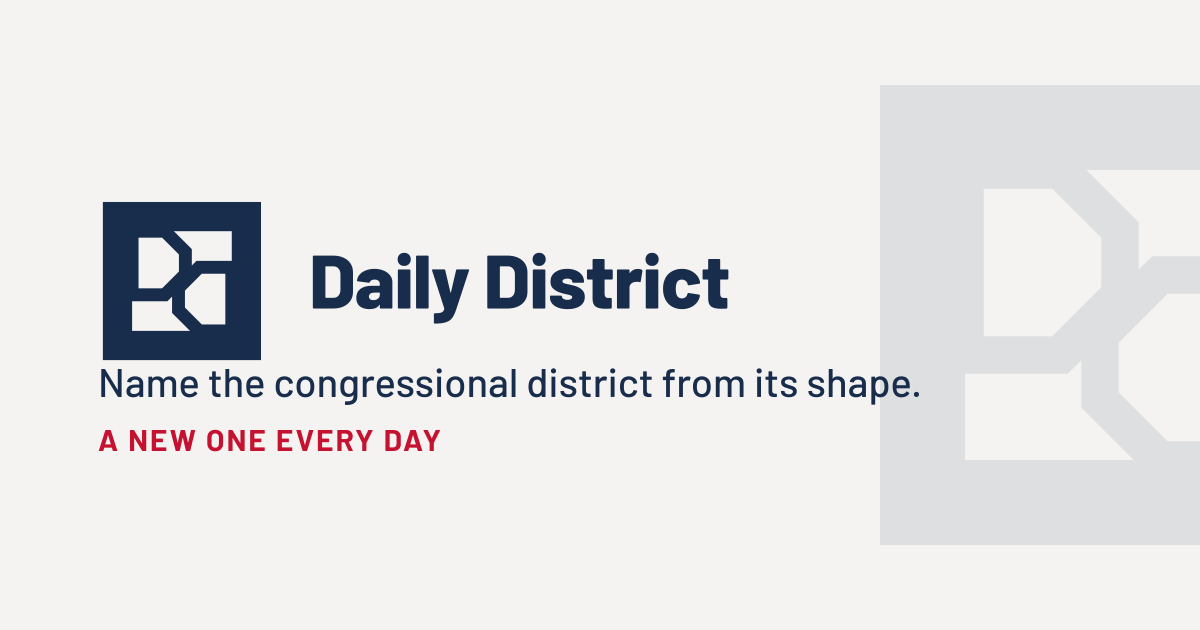
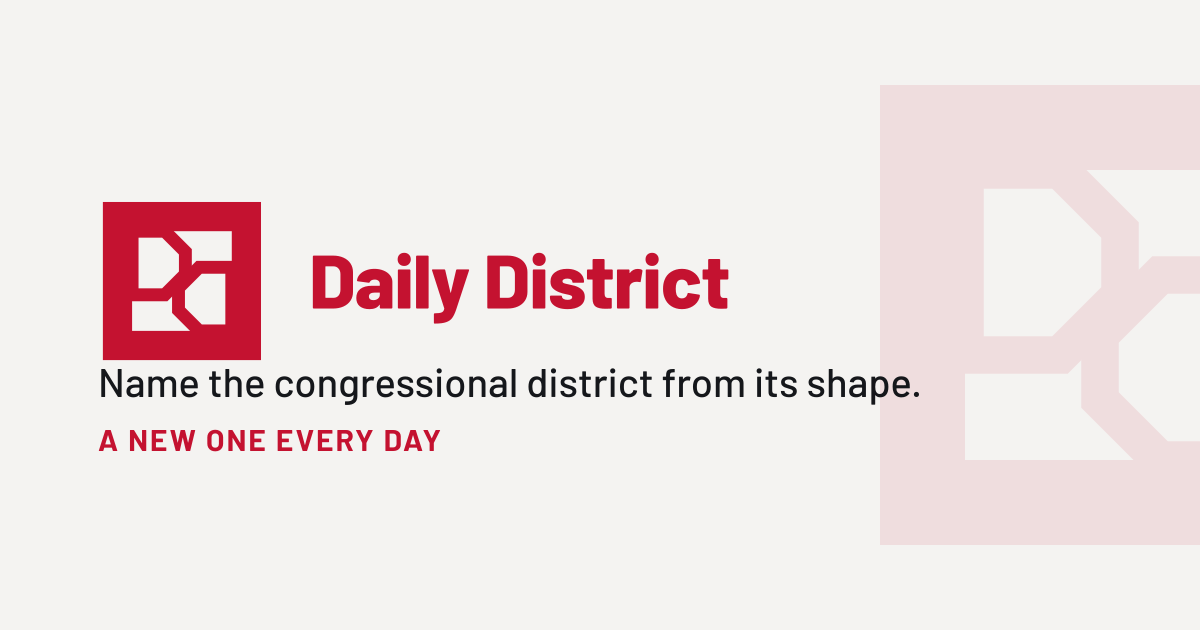
v2.17.1 — Recolor the Ghost D mark to CMU Red to match the wordmark
The navy mark sat next to the red "Daily District" wordmark in the header; they
now match. logo.svg is baked #C41230, and since the wordmark holds #C41230 in
both light and dark, the mark does too — dropped the navy->white dark-mode
filter I'd added. Regenerated the icon family on the red colourway: red-plate
app icons, a red favicon (lifting to #FF3B57 on a dark tab bar), red-lockup
og-image. Navy stays as the alternate colourway (mark-navy / app-icon-navy).

build.py: primary colour navy -> red for logo/favicon/app-icon/og; navy kept as
the alternate. README updated (site overrides the handoff's navy primary to red).

Changed region(s): [[0.0617, 0.3016, 0.7708, 0.6333], [0.2467, 0.3921, 0.6167, 0.5127]]

diff --git a/style.css b/style.css
@@ -2688,15 +2688,6 @@ body.dark-mode .archive-modal-content .archive-item { background: rgba(44, 44, 5
 }
 body.dark-mode .welcome-wordmark-svg { filter: brightness(0) invert(1); }
 body.light-mode .welcome-wordmark-svg { filter: none; }
-
-/* The Ghost D mark (logo.svg) is a single navy plate; on dark grounds it flips
-   to white, matching the wordmark treatment above. Applies to the header mark,
-   the teaser hero mark, and the welcome-splash mark. */
-@media (prefers-color-scheme: dark) {
-  .game-logo, .teaser-logo, .welcome-logo-svg { filter: brightness(0) invert(1); }
-}
-body.dark-mode .game-logo, body.dark-mode .teaser-logo, body.dark-mode .welcome-logo-svg { filter: brightness(0) invert(1); }
-body.light-mode .game-logo, body.light-mode .teaser-logo, body.light-mode .welcome-logo-svg { filter: none; }
 .welcome-back-text {
   font-family: 'Barlow Condensed', 'Barlow', system-ui, sans-serif;
   font-size: clamp(1.1rem, 3vh, 1.6rem);

diff --git a/brand/build.py b/brand/build.py
@@ -101,24 +101,27 @@ def write(name, text):
 # ---------------------------------------------------------------- 1. the mark
 write("mark.svg", svg(glyph()))                                 # primary, currentColor
 write("mark-small.svg", svg(glyph(cut=SMALL)))
-write("mark-navy.svg", svg(glyph(color=NAVY)))                  # baked, for <img>
-# The site's /logo.svg is the primary mark baked navy (currentColor renders black
-# in an <img>); the site flips it to white on dark grounds with a CSS filter.
-write("logo.svg", svg(glyph(color=NAVY)))
+write("mark-navy.svg", svg(glyph(color=NAVY)))                  # baked navy (alternate)
+write("mark-red.svg", svg(glyph(color=RED)))                    # baked red (site primary)
+# The site's /logo.svg is the primary mark baked in CMU Red (currentColor renders
+# black in an <img>), so it matches the red wordmark it sits beside — in both light
+# and dark, where the red wordmark does not shift, so the mark holds red too.
+write("logo.svg", svg(glyph(color=RED)))
 
 
 # ------------------------------------------------------- 2. favicon (SVG, ICO)
-# Small cut in navy, flipping to white under the browser's own dark mode.
-_fav_body = glyph(cut=SMALL, color=NAVY)
+# Small cut in CMU Red, lifting to #FF3B57 under the browser's own dark mode
+# (plain #C41230 goes muddy on a dark tab bar).
+_fav_body = glyph(cut=SMALL, color=RED)
 _fav_body = _fav_body.replace(
-    f'stroke="{NAVY}"', f'class="gd-s" stroke="{NAVY}"').replace(
-    f'<g fill="{NAVY}">', f'<g class="gd-f" fill="{NAVY}">')
+    f'stroke="{RED}"', f'class="gd-s" stroke="{RED}"').replace(
+    f'<g fill="{RED}">', f'<g class="gd-f" fill="{RED}">')
 write("favicon.svg", svg(
-    '<style>@media (prefers-color-scheme:dark){.gd-s{stroke:#fff}.gd-f{fill:#fff}}'
-    '</style>' + _fav_body))
+    f'<style>@media (prefers-color-scheme:dark){{.gd-s{{stroke:{RED_LIFT}}}'
+    f'.gd-f{{fill:{RED_LIFT}}}}}</style>' + _fav_body))
 # Flat feeds for the .ico frames — no media query, no currentColor.
-write("favicon-small-navy.svg", svg(glyph(cut=SMALL, color=NAVY)))
-write("favicon-display-navy.svg", svg(glyph(color=NAVY)))
+write("favicon-small-red.svg", svg(glyph(cut=SMALL, color=RED)))
+write("favicon-display-red.svg", svg(glyph(color=RED)))
 
 
 # --------------------------------------------------------------- 3. app icons
@@ -134,9 +137,9 @@ def app_icon(plate, mark_color, pad):
                vb="0 0 512 512")
 
 
-write("app-icon.svg", app_icon(NAVY, WHITE, 0.1875))       # PWA "any" / iOS
-write("app-icon-maskable.svg", app_icon(NAVY, WHITE, 0.27))  # Android safe circle
-write("app-icon-red.svg", app_icon(RED, WHITE, 0.1875))    # alternate / event skin
+write("app-icon.svg", app_icon(RED, WHITE, 0.1875))        # PWA "any" / iOS (primary)
+write("app-icon-maskable.svg", app_icon(RED, WHITE, 0.27))   # Android safe circle
+write("app-icon-navy.svg", app_icon(NAVY, WHITE, 0.1875))  # alternate / event skin
 
 
 # ----------------------------------------------------------------- 4. lockups
@@ -178,7 +181,7 @@ write("wordmark.svg", _wm)
 # ------------------------------------------------------------- 5. social card
 def og_card():
     w, h = 1200.0, 630.0
-    lock = lockup_horizontal(NAVY)
+    lock = lockup_horizontal(RED)
     lvw = float(re.search(r'viewBox="0 0 ([\d.]+)', lock).group(1))
     inner = re.search(r'">(.*)</svg>', lock, re.S).group(1)
     ls = 660.0 / lvw
@@ -187,11 +190,11 @@ def og_card():
     gy = (h - gs) / 2
     return svg(
         f'<rect width="{w:.0f}" height="{h:.0f}" fill="{CREAM}"></rect>'
-        f'<g opacity="0.1">{glyph(gs, gx, gy, color=NAVY)}</g>'
+        f'<g opacity="0.1">{glyph(gs, gx, gy, color=RED)}</g>'
         f'<g transform="translate(96 {ly:.1f}) scale({ls:.4f})">{inner}</g>'
         f'<text x="98" y="{h / 2 + 82:.0f}" font-family="Space Grotesk, Barlow, '
         f'Helvetica, Arial, sans-serif" font-size="40" font-weight="500" '
-        f'fill="{NAVY}">Name the congressional district from its shape.</text>'
+        f'fill="{INK}">Name the congressional district from its shape.</text>'
         f'<text x="98" y="{h / 2 + 136:.0f}" font-family="JetBrains Mono, Barlow, '
         f'Helvetica, Arial, sans-serif" font-size="30" font-weight="700" '
         f'fill="{RED}" letter-spacing="2">A NEW ONE EVERY DAY</text>',
@@ -242,7 +245,7 @@ def build_rasters():
     sizes = [16, 24, 32, 48, 64, 128]
     frames = []
     for s in sizes:
-        src = "favicon-small-navy.svg" if s <= 32 else "favicon-display-navy.svg"
+        src = "favicon-small-red.svg" if s <= 32 else "favicon-display-red.svg"
         png(src, f"f{s}.png", s, out_dir=tmp)
         frames.append(open(os.path.join(tmp, f"f{s}.png"), "rb").read())
     offset = 6 + 16 * len(sizes)

diff --git a/brand/README.md b/brand/README.md
@@ -57,13 +57,13 @@ is a closed square and reads as part of any rule or box it touches.
 | --- | --- |
 | `mark.svg` | **Primary** — `currentColor`, one plate; inline it and set `color` |
 | `mark-small.svg` | Small cut, `currentColor`. At or below 24px |
-| `mark-navy.svg` | Primary baked navy |
-| `logo.svg` | The navy mark baked for `<img src>`. **This is what the site's `logo.svg` is** |
-| `favicon.svg` | Small cut in navy; answers the browser's dark mode (flips to white) |
-| `favicon-small-navy.svg`, `favicon-display-navy.svg` | Feed the `.ico` frames — flat navy, no classes or media query, since the rasteriser renders them directly |
-| `app-icon.svg` | Navy plate, white mark, 19% inset — PWA `purpose: any` and iOS |
+| `mark-red.svg`, `mark-navy.svg` | The mark baked CMU Red (site primary) / navy (alternate) |
+| `logo.svg` | The mark baked in **CMU Red** for `<img src>`, to match the red wordmark it sits beside. **This is what the site's `logo.svg` is** |
+| `favicon.svg` | Small cut in CMU Red; lifts to `#FF3B57` under the browser's dark mode |
+| `favicon-small-red.svg`, `favicon-display-red.svg` | Feed the `.ico` frames — flat red, no classes or media query, since the rasteriser renders them directly |
+| `app-icon.svg` | CMU Red plate, white mark, 19% inset — PWA `purpose: any` and iOS |
 | `app-icon-maskable.svg` | Same, 27% inset — inside Android's 80% safe circle |
-| `app-icon-red.svg` | CMU Red plate, white mark — alternate icon / event skins |
+| `app-icon-navy.svg` | Navy plate, white mark — alternate icon / event skins |
 | `lockup-horizontal.svg` | **Primary lockup** — `currentColor`, mark + wordmark |
 | `lockup-stacked.svg` | Stacked lockup — `currentColor`, for square crops and avatars |
 | `wordmark.svg` | Wordmark alone (unchanged across the mark swap) |
@@ -88,15 +88,18 @@ Every value is also a token in `style.css`.
 
 | Role | Value | Token |
 | --- | --- | --- |
-| Primary mark, primary text | `#182C4B` | `--dd-navy` |
-| Accent, solved state, red plate | `#C41230` | `--dd-red` |
+| Primary mark + wordmark **on this site** | `#C41230` | `--dd-red` (`--cmu-red`) |
+| Handoff primary (kept as the alternate) | `#182C4B` | `--dd-navy` |
 | Red on dark grounds | `#FF3B57` | `--dd-red-dark` |
 | Light ground | `#F4F3F1` | `--dd-bg` |
 
-`#FF3B57` is a rendering correction rather than a brand colour: `#C41230` goes muddy
-below roughly 20% ground luminance. The resting mark is one navy plate; on dark grounds
-it flips to white (`favicon.svg` via `prefers-color-scheme`; the in-page marks via a
-CSS `filter` on `.game-logo` / `.teaser-logo` / `.welcome-logo-svg`).
+The Ghost D handoff specifies navy as the primary; **this site overrides that to CMU
+Red** so the mark matches the "Daily District" wordmark it sits beside. The wordmark is
+`#C41230` in both light and dark (it does not shift), so `logo.svg` holds `#C41230` in
+both too — no dark flip. `favicon.svg` is the one exception: it lifts to `#FF3B57` under
+`prefers-color-scheme: dark`, since `#C41230` goes muddy on a dark browser tab bar
+(below ~20% ground luminance). The navy colourway (`mark-navy.svg`, `app-icon-navy.svg`)
+stays in the kit as the alternate.
 
 ## What's live on the site
 
@@ -109,10 +112,11 @@ CSS `filter` on `.game-logo` / `.teaser-logo` / `.welcome-logo-svg`).
   own version numbers were left alone.
 - `og:image` / `twitter:image` point at `og-image.png` (a real 1200×630 card) with
   `twitter:card` set to `summary_large_image`.
-- The mark is a single navy plate, so unlike the two-colour lattice it needs a dark-mode
-  treatment: `.game-logo` (header, 32px), `.teaser-logo` (56px) and `.welcome-logo-svg`
-  (welcome splash) flip to white on dark grounds via a CSS `filter`, matching the
-  wordmark. All sit above the display cut's 24px floor.
+- The mark (`.game-logo` 32px header, `.teaser-logo` 56px) is CMU Red and holds `#C41230`
+  in both themes — the red wordmark beside it does not shift, so the mark doesn't either
+  (no dark-mode `filter`). All sit above the display cut's 24px floor. Note: on the very
+  darkest grounds (the teaser hero) `#C41230` reads a little muted — the same tradeoff
+  the red wordmark already carries there.
 - `.dd-wordmark` masks `/wordmark.svg` — unchanged, no action.
 
 ## Rebuilding

diff --git a/CHANGELOG.md b/CHANGELOG.md
@@ -1,5 +1,9 @@
 # District Guess — Changelog
 
+## v2.17.1 — Ghost D mark in CMU Red, matching the wordmark
+
+- The mark now renders in **CMU Red** (`#C41230`) instead of navy, so it matches the red "Daily District" wordmark it sits beside in the header. Since the wordmark holds `#C41230` in both light and dark, `logo.svg` does too (dropped the navy→white dark-mode `filter`). Regenerated the icon family on the red colourway: red-plate app icons, a red favicon (lifting to `#FF3B57` on a dark tab bar), and a red-lockup og-image. Navy stays in `brand/` as the alternate colourway (`mark-navy.svg`, `app-icon-navy.svg`).
+
 ## v2.17.0 — New logo: the "Ghost D" mark
 
 - Replaced the district-lattice mark with **Ghost D** — a square frame with two interlocking D's (one letterform and its 180° rotation) carved into the negative space, a single navy colour plate. Regenerated the whole asset family — `logo.svg`, `favicon.svg`/`.ico`, `icon-192`/`512`, `apple-touch-icon`, `icon-maskable-512`, `og-image`, and the lockups — from a rewritten, self-contained `brand/build.py` that embeds the canonical geometry and reproduces every asset without the design handoff present (the handoff stays gitignored).
